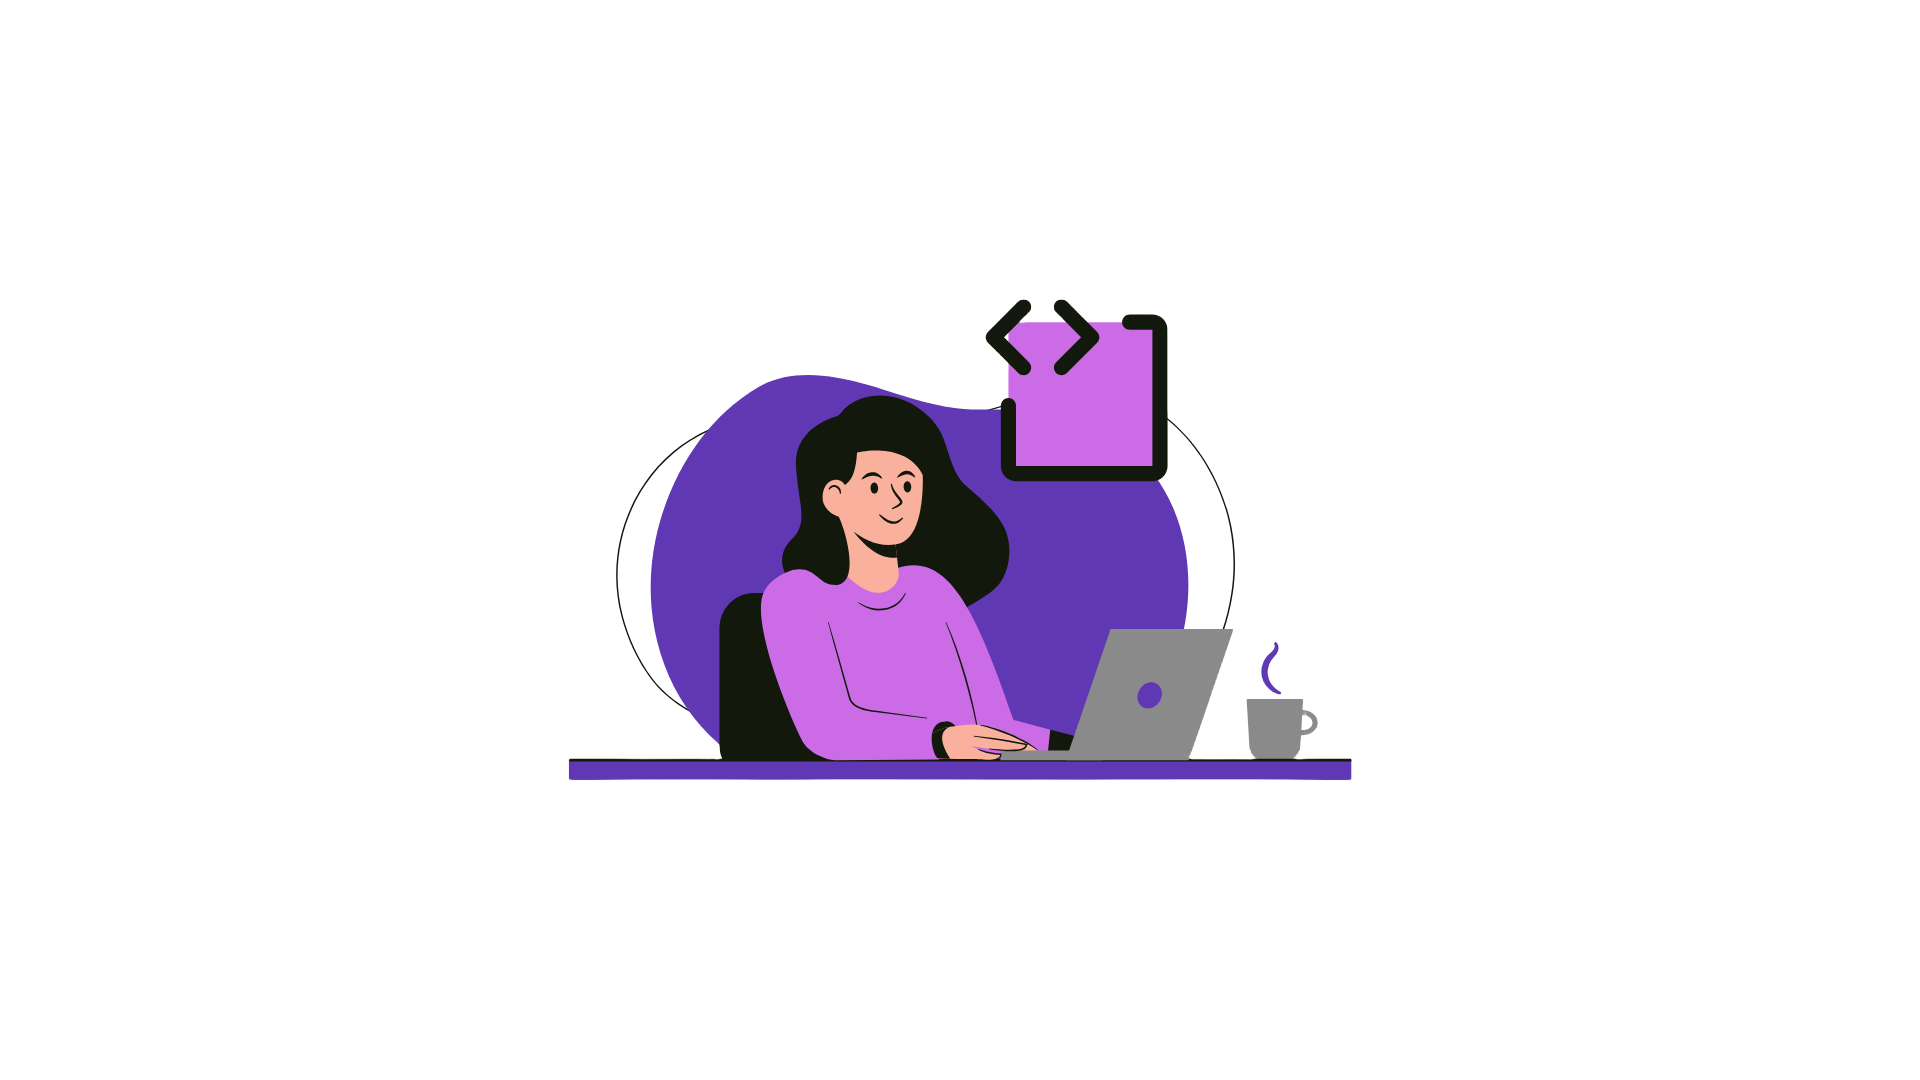
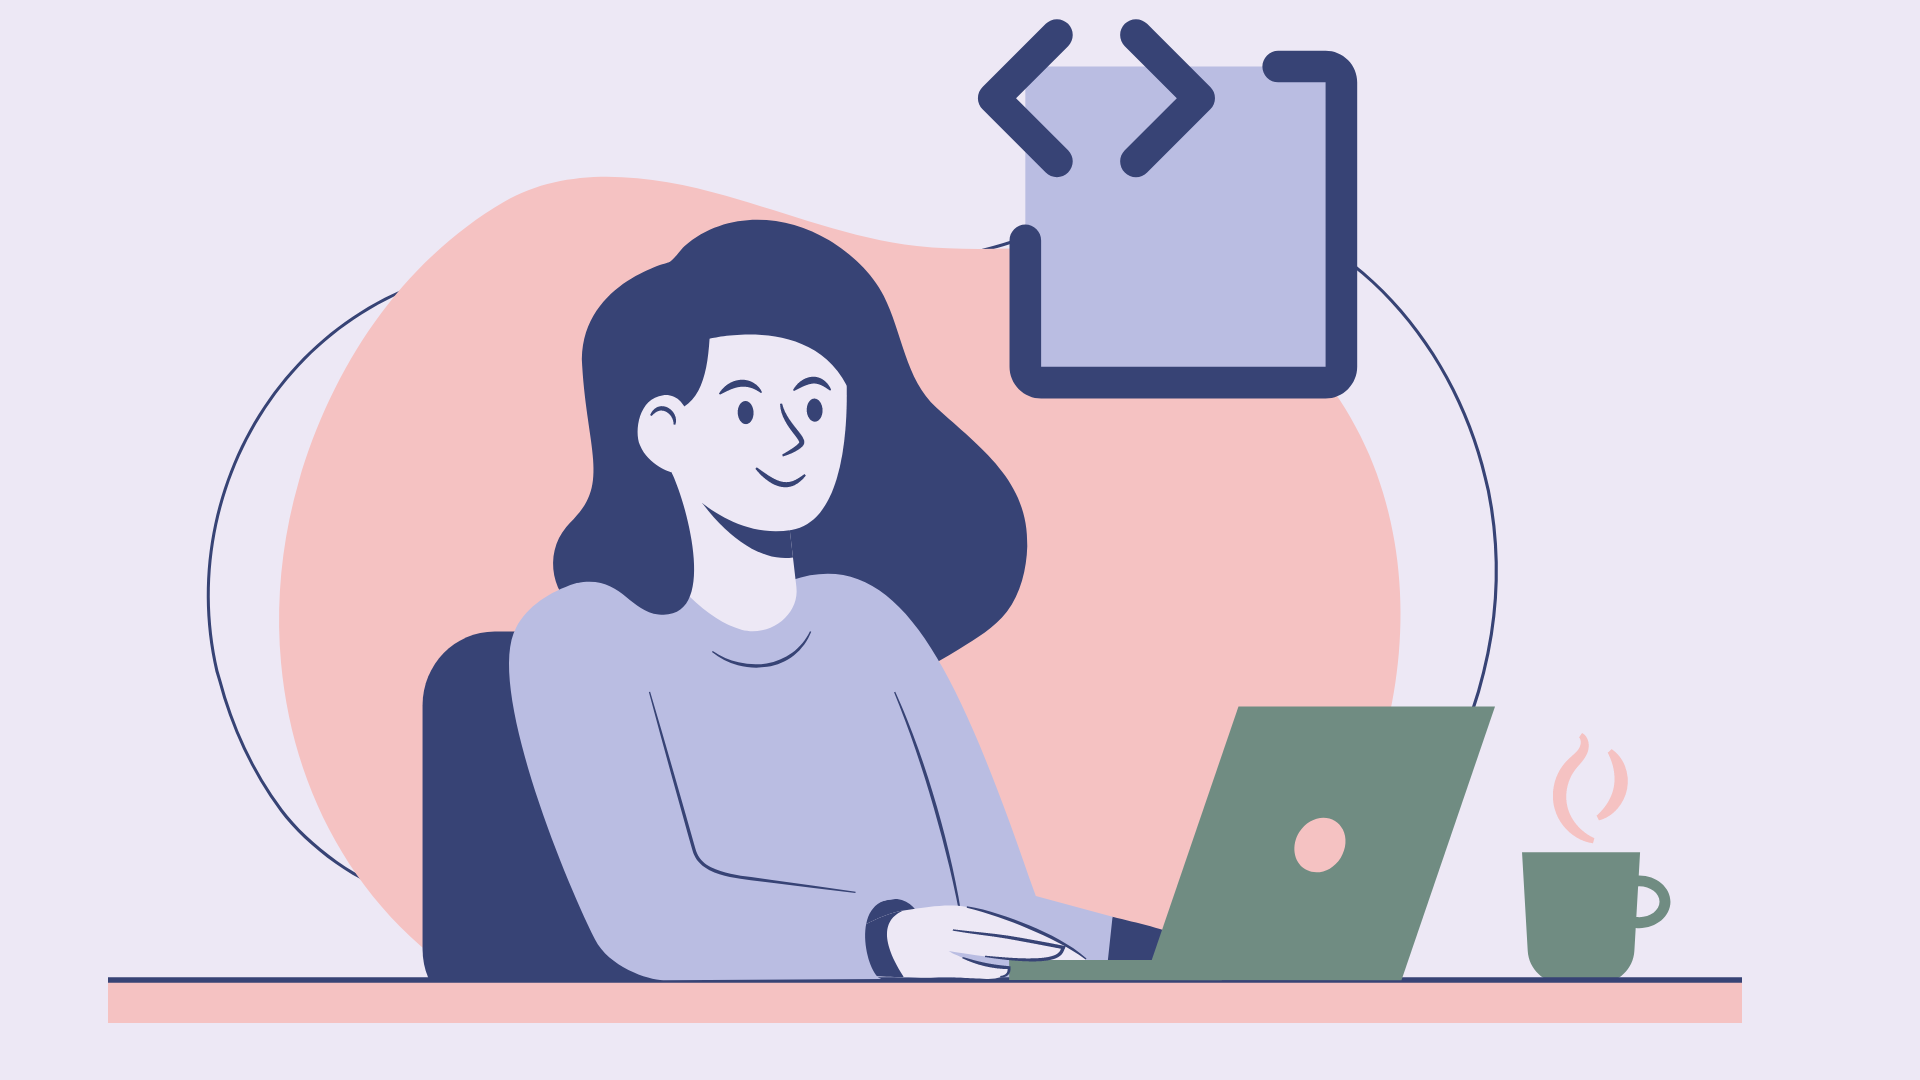
changed splash

diff --git a/src/style.css b/src/style.css
@@ -1,11 +1,7 @@
 html {
-  --section-background-color: linear-gradient(
-    to bottom left,
-    rgba(17, 16, 16, 0.582),
-    rgba(12, 8, 24, 0.904)
-  );
+  --section-background-color: #ede8f5; 
 
-  --image-gradient: linear-gradient(
+  /* --image-gradient: linear-gradient(
     to bottom left,
     rgba(17, 16, 16, 0.678),
     rgba(12, 10, 22, 0.863)
@@ -21,6 +17,8 @@ html {
 button:focus {
   box-shadow: none !important;
 }
+*/
+}
 
 /* --------- */
 /*  Preloader */
@@ -32,7 +30,7 @@ button:focus {
   width: 100%;
   height: 100%;
   z-index: 999999;
-  background-color: #0c0513;
+  background-color: #ede8f5;
   background-image: url(./Assets/pre.svg);
   background-repeat: no-repeat;
   background-position: center;
@@ -76,7 +74,7 @@ button:focus {
 /* Navbar Section  */
 /* --------- */
 .sticky {
-  background-color: #1b1a2ea9 !important;
+  background-color: #ede8f5 !important;
   transition: all 0.3s ease-out 0s !important;
   box-shadow: 0px 10px 10px 0px rgba(9, 5, 29, 0.171) !important;
   backdrop-filter: blur(15px) !important;
@@ -144,7 +142,7 @@ button:focus {
   .navbar {
     padding: 1rem 2rem !important;
     font-size: 1.4rem !important;
-    background-color: #181a27 !important;
+    background-color: #ede8f5 !important;
   }
   .navbar-nav .nav-item a::after {
     display: none !important;
@@ -160,7 +158,7 @@ button:focus {
 }
 
 .navbar-nav .nav-link {
-  color: white !important;
+  color: #708c82 !important;
   padding-right: 1rem !important;
   padding-left: 1rem !important;
 }
@@ -257,9 +255,10 @@ button:focus {
 .home-section {
   position: relative;
   z-index: -1;
-  background-image: var(--image-gradient), url(./Assets/home-bg.jpg);
-  background-position: top center;
-  background-repeat: no-repeat;
+  /* background-image: var(--image-gradient), url(./Assets/home-bg.jpg); */
+  background-color: #ede8f5;
+  /* background-position: top center;
+  background-repeat: no-repeat; */
   padding-bottom: 30px !important;
   padding-top: 30px !important;
 }
@@ -271,32 +270,38 @@ button:focus {
 }
 
 .heading {
-  font-size: 2.4em !important;
+  color: #374375;
+  font-size: 3em !important;
   padding-left: 50px !important;
 }
 
+mark {
+  background-color: #f5c2c2;
+}
+
 .heading-name {
-  font-size: 2.5em !important;
+  color: #708c82;
+  font-size: 3em !important;
   padding-left: 45px !important;
 }
 
 .main-name {
-  color: #cd5ff8;
+  color: #374375;
 }
 
 .Typewriter__wrapper {
-  font-size: 2.2em !important;
-  color: #be6adf !important;
+  font-size: 3em !important;
+  color: #374375 !important;
   font-weight: 600 !important;
 }
 .Typewriter__cursor {
   font-size: 2.4em !important;
-  color: #b562d6 !important;
+  color: #374375 !important;
 }
 
 @media (max-width: 767px) {
   .Typewriter__wrapper {
-    font-size: 1.4em !important;
+    font-size: 3em !important;
     font-weight: 500 !important;
     position: absolute !important;
   }
@@ -318,6 +323,7 @@ button:focus {
 }
 
 .home-about-section {
+  background-color: #ede8f5;
   position: relative;
   padding-bottom: 70px !important;
   padding-top: 70px !important;
@@ -741,3 +747,19 @@ button:focus {
 .fork-btn-inner::after {
   display: none !important;
 }
+
+
+.bounce-img { 
+  animation: gentleHover 1s infinite alternate;
+  animation-timing-function: ease-in-out;
+} 
+
+@keyframes gentleHover {
+  from { 
+    transform: translate3d(0, 0, 0); 
+  } 
+  to { 
+    transform: translate3d(0, -10px, 0); 
+  } 
+}
+

diff --git a/src/components/Home/Home2.js b/src/components/Home/Home2.js
@@ -4,7 +4,7 @@ import myImg from "../../Assets/portrait.png";
 import Tilt from "react-parallax-tilt";
 import {
   AiFillGithub,
-  AiOutlineTwitter,
+  AiFillMail,
   AiFillInstagram,
 } from "react-icons/ai";
 import { FaLinkedinIn } from "react-icons/fa";
@@ -19,7 +19,7 @@ function Home2() {
             ... at a <span className="purple">{"< glance />"} </span> ...
             </h1>
             <p className="home-about-body">
-              I'm a computer science student at Brown with special interest in art, graphics, and design!
+              I'm a computer science student at Brown with special interests in art, graphics, and design!
               
               I'm most comfortable working in
                 <b className="purple"> Javascript, Python and C. </b>
@@ -27,11 +27,10 @@ function Home2() {
               <br />
               My goal as a programmer is to explore how to create the most  
               <b className='purple'> sleek, engaging, </b> and <b className='purple'> responsive</b> designs for the web.
-              
-              <br />
-              <br />
               I use what I've learned to apply to new projects with tools like
               <b className="purple"> Node.js </b> and <b className='purple'>React</b>.
+              <br/> <br />
+              I'm currently seeking <b className='purple'> </b>internship opportunities for summer 2025 in software development!
               
             </p>
           </Col>
@@ -44,10 +43,17 @@ function Home2() {
         <Row>
           <Col md={12} className="home-about-social">
             <h1>FIND ME ON</h1>
-            <p>
-              Feel free to <span className="purple">connect </span>with me
-            </p>
             <ul className="home-about-social-links">
+              <li className="social-icons">
+                <a
+                  href="mailto:emilywang188@gmail.com"
+                  target="_blank"
+                  rel="noreferrer"
+                  className="icon-colour  home-social-icons"
+                >
+                  <AiFillMail />
+                </a>
+              </li>
               <li className="social-icons">
                 <a
                   href="https://github.com/emilywang188"
@@ -56,16 +62,6 @@ function Home2() {
                   className="icon-colour  home-social-icons"
                 >
                   <AiFillGithub />
-                </a>
-              </li>
-              <li className="social-icons">
-                <a
-                  href="https://twitter.com/Soumyajit4419"
-                  target="_blank"
-                  rel="noreferrer"
-                  className="icon-colour  home-social-icons"
-                >
-                  <AiOutlineTwitter />
                 </a>
               </li>
               <li className="social-icons">
@@ -89,6 +85,9 @@ function Home2() {
                 </a>
               </li>
             </ul>
+            <p>
+              <span className="purple">Connect </span>with me!
+            </p>
           </Col>
         </Row>
       </Container>

diff --git a/src/components/Navbar.js b/src/components/Navbar.js
@@ -3,12 +3,12 @@ import Navbar from "react-bootstrap/Navbar";
 import Nav from "react-bootstrap/Nav";
 import Container from "react-bootstrap/Container";
 import logo from "../Assets/name_logo.png";
-import Button from "react-bootstrap/Button";
+// import Button from "react-bootstrap/Button";
 import { Link } from "react-router-dom";
-import { CgGitFork } from "react-icons/cg";
-import { ImBlog } from "react-icons/im";
+// import { CgGitFork } from "react-icons/cg";
+// import { ImBlog } from "react-icons/im";
 import {
-  AiFillStar,
+  // AiFillStar,
   AiOutlineHome,
   AiOutlineFundProjectionScreen,
   AiOutlineUser,
@@ -55,7 +55,7 @@ function NavBar() {
           <Nav className="ms-auto" defaultActiveKey="#home">
             <Nav.Item>
               <Nav.Link as={Link} to="/" onClick={() => updateExpanded(false)}>
-                <AiOutlineHome style={{ marginBottom: "2px" }} /> Home
+                <AiOutlineHome style={{ marginBottom: "2px" }} /> <b>home</b>
               </Nav.Link>
             </Nav.Item>
 
@@ -65,7 +65,7 @@ function NavBar() {
                 to="/about"
                 onClick={() => updateExpanded(false)}
               >
-                <AiOutlineUser style={{ marginBottom: "2px" }} /> About
+                <AiOutlineUser style={{ marginBottom: "2px" }} /> <b>about</b>
               </Nav.Link>
             </Nav.Item>
 
@@ -78,7 +78,7 @@ function NavBar() {
                 <AiOutlineFundProjectionScreen
                   style={{ marginBottom: "2px" }}
                 />{" "}
-                Projects
+                <b>projects</b>
               </Nav.Link>
             </Nav.Item>
 
@@ -88,11 +88,11 @@ function NavBar() {
                 to="/resume"
                 onClick={() => updateExpanded(false)}
               >
-                <CgFileDocument style={{ marginBottom: "2px" }} /> Resume
+                <CgFileDocument style={{ marginBottom: "2px" }} /> <b>resume</b>
               </Nav.Link>
             </Nav.Item>
 
-            <Nav.Item>
+            {/* <Nav.Item>
               <Nav.Link
                 href="https://soumyajitblogs.vercel.app/"
                 target="_blank"
@@ -100,9 +100,9 @@ function NavBar() {
               >
                 <ImBlog style={{ marginBottom: "2px" }} /> Blogs
               </Nav.Link>
-            </Nav.Item>
+            </Nav.Item> */}
 
-            <Nav.Item className="fork-btn">
+            {/* <Nav.Item className="fork-btn">
               <Button
                 href="https://github.com/soumyajit4419/Portfolio"
                 target="_blank"
@@ -111,7 +111,7 @@ function NavBar() {
                 <CgGitFork style={{ fontSize: "1.2em" }} />{" "}
                 <AiFillStar style={{ fontSize: "1.1em" }} />
               </Button>
-            </Nav.Item>
+            </Nav.Item> */}
           </Nav>
         </Navbar.Collapse>
       </Container>

diff --git a/src/components/Home/Home.js b/src/components/Home/Home.js
@@ -1,7 +1,6 @@
 import React from "react";
 import { Container, Row, Col } from "react-bootstrap";
 import homeLogo from "../../Assets/home.png";
-import Particle from "../Particle";
 import Home2 from "./Home2";
 import Type from "./Type";
 
@@ -9,26 +8,22 @@ function Home() {
   return (
     <section>
       <Container fluid className="home-section" id="home">
-        <Particle />
         <Container className="home-content">
           <Row>
             <Col md={7} className="home-header">
               <h1 style={{ paddingBottom: 15 }} className="heading">
-                Welcome!{" "}
-                <span className="wave" role="img" aria-labelledby="wave">
-                  👋🏻
-                </span>
+                <i><b><span style= {{ backgroundColor: '#f5c2c2' }}>welcome!</span></b></i>
               </h1>
 
               <h1 className="heading-name">
-                I'M
-                <strong className="main-name"> EMILY WANG!</strong>
+                my name is 
+                <strong className="main-name"> emily wang</strong>
               </h1>
 
-              <h1 style={{ paddingBottom: 15 }} className="heading">
-                And I am a...
+              <h1 style={{ paddingBottom: 15 }} className="heading-name">
+                and I am a:
               </h1>
-              <div style={{ padding: 50, paddingTop: 30, textAlign: "left" }}>
+              <div style={{ padding: 50, paddingTop: 10, textAlign: "left" }}>
                 <Type />
               </div>
             </Col>
@@ -37,8 +32,8 @@ function Home() {
               <img
                 src={homeLogo}
                 alt="home pic"
-                className="img-fluid"
-                style={{ maxHeight: "450px" }}
+                className="img-fluid bounce-img"
+                style={{ maxHeight: "400px" }}
               />
             </Col>
           </Row>

diff --git a/src/components/Home/Type.js b/src/components/Home/Type.js
@@ -6,12 +6,12 @@ function Type() {
     <Typewriter
       options={{
         strings: [
-          "Software Developer",
-          "Painter",
-          "Web Designer",
-          "Violinist",
-          "Digital Artist",
-          "Researcher",
+          "software developer",
+          "painter",
+          "web designer",
+          "violinist",
+          "digital artist",
+          "researcher",
         ],
         autoStart: true,
         loop: true,

diff --git a/src/index.css b/src/index.css
@@ -4,5 +4,5 @@ body {
   font-family: "Raleway", serif !important;
   -webkit-font-smoothing: antialiased;
   -moz-osx-font-smoothing: grayscale;
-  background-image: linear-gradient(to left, rgb(27 20 41), rgb(20 15 35));
+  background-color: rgb(142, 67, 67);
 }
